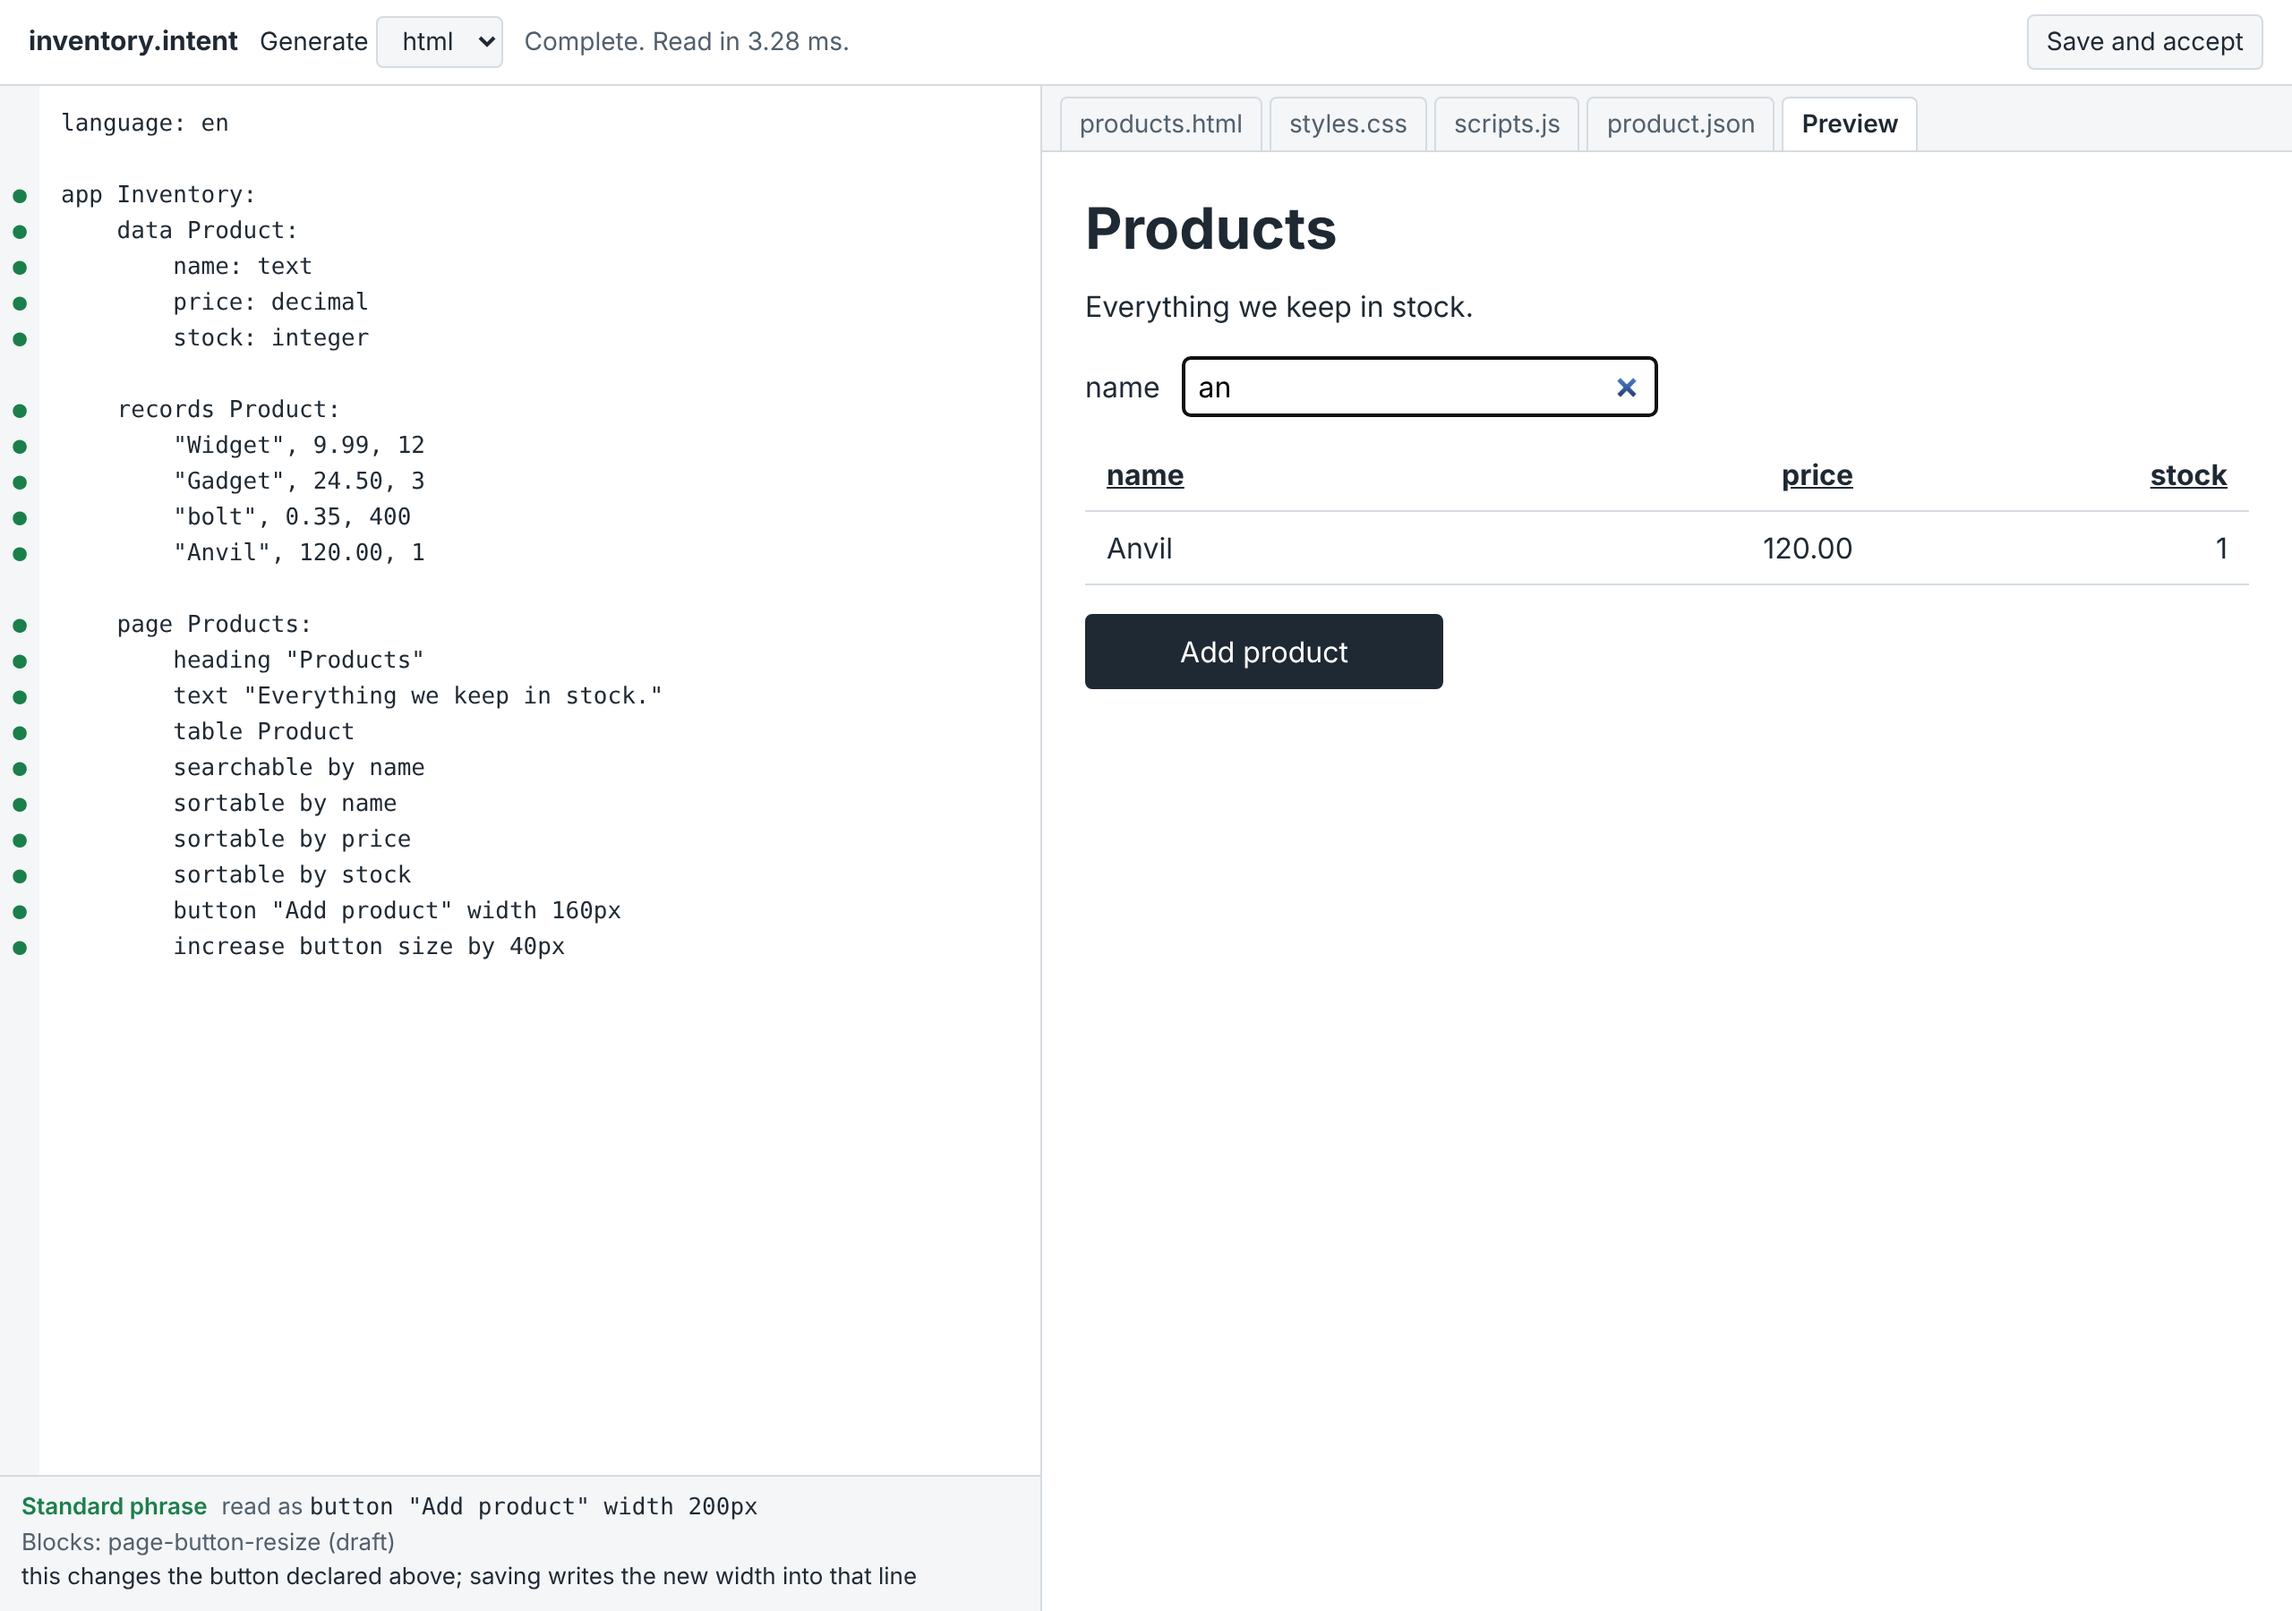
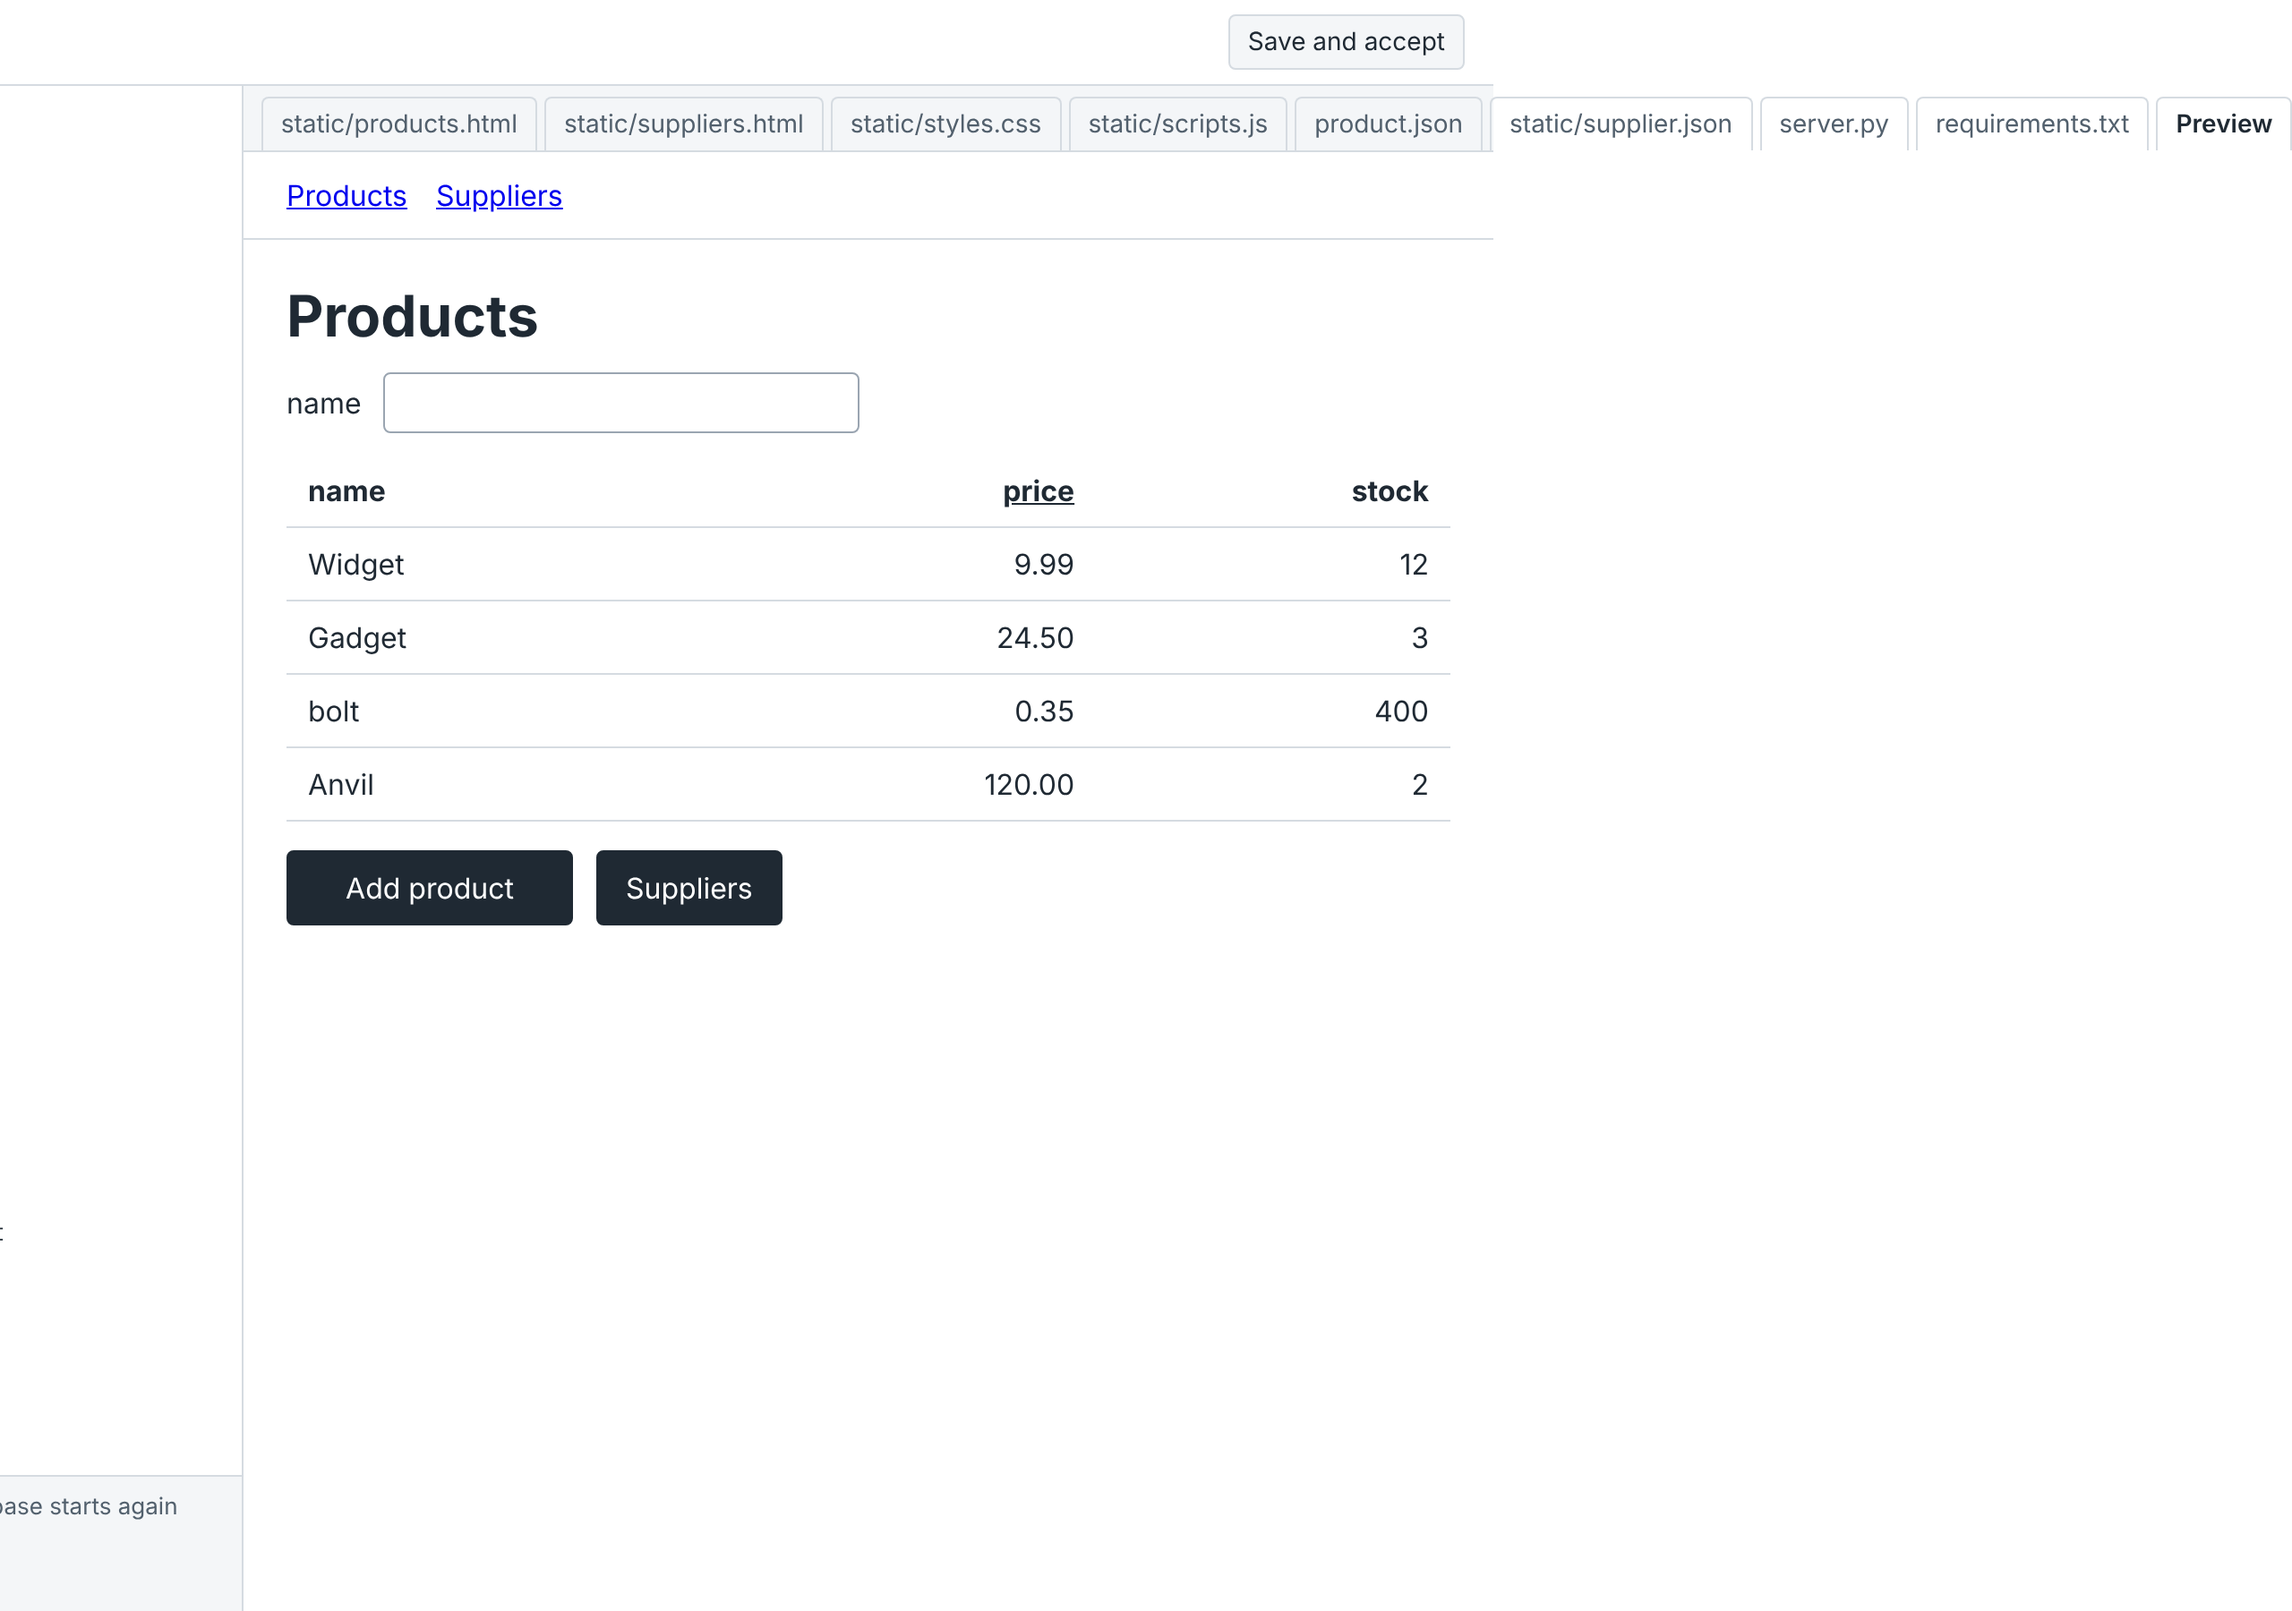
Live view: the preview of an application runs its real generated server
When FastAPI and uvicorn are installed, the live view writes the
generated application to a temporary folder and runs its server on this
machine, so that adding a record in the preview really adds it. The
server starts again with a fresh database when its code or first
records change, and the preview reloads only when a file changes.

Claude-Session: https://claude.ai/code/session_014AtkGeqpXMhPjJzw8GDT1f

diff --git a/cdipl/live_page.html b/cdipl/live_page.html
@@ -57,7 +57,7 @@ main { flex: 1; min-height: 0; display: grid; grid-template-columns: minmax(0, 1
   <div id="right">
     <div id="tabs" role="tablist"></div>
     <pre id="code" aria-label="Generated code"></pre>
-    <iframe id="preview" title="Preview of the generated page" sandbox="allow-scripts"></iframe>
+    <iframe id="preview" title="Preview of the generated page" sandbox="allow-scripts allow-same-origin allow-forms allow-modals"></iframe>
   </div>
 </main>
 <script>
@@ -67,7 +67,7 @@ const tabs = document.querySelector("#tabs"), code = document.querySelector("#co
 const targetBox = document.querySelector("#target"), state = document.querySelector("#state"), saveButton = document.querySelector("#save");
 const LABELS = { standard: "Standard phrase", sure: "Chosen", project: "Accepted earlier", unsure: "Chosen, unsure", error: "Not understood", unbuilt: "Not built yet" };
 const MARKS = { standard: "●", sure: "●", project: "●", unsure: "◐", error: "✕", unbuilt: "○" };
-let latest = null, counter = 0, timer = null, tab = null, lastLine = 0, notice = "";
+let latest = null, counter = 0, timer = null, tab = null, lastLine = 0, notice = "", previewKey = null;
 
 function post(path, body) {
   return fetch(path, { method: "POST", headers: { "Content-Type": "application/json", "X-CDIPL-Token": token }, body: JSON.stringify(body) }).then((reply) => reply.json());
@@ -101,7 +101,16 @@ function showCode() {
   const file = latest.files.find((each) => each.name === tab);
   preview.style.display = tab === "Preview" ? "block" : "none";
   code.style.display = tab === "Preview" ? "none" : "block";
-  if (tab === "Preview") { preview.src = `/preview/${token}/${latest.preview}?v=${counter}`; return; }
+  if (tab === "Preview") {
+    // Load the page again only when what it shows has changed, so that a form in the preview is not lost while typing.
+    const key = JSON.stringify(latest.files.map((each) => [each.name, each.lines.map((line) => line.text)]));
+    if (key !== previewKey) {
+      previewKey = key;
+      preview.src = latest.preview_url ? latest.preview_url : `/preview/${token}/${latest.preview}?v=${counter}`;
+    }
+    return;
+  }
+  previewKey = null;
   if (!file) { code.replaceChildren(element("div", "", "")); code.firstChild.id = "empty"; code.firstChild.textContent = "Nothing can be generated yet."; return; }
   code.replaceChildren(...file.lines.map((line) => {
     const row = element("div", typeof line.origin === "number" ? "pick" : "", line.text);

diff --git a/cdipl/live_server.py b/cdipl/live_server.py
@@ -1,6 +1,13 @@
-"""A local web server for the live view: text on one side, generated blocks on the other."""
+"""A local web server for the live view: text on one side, generated files on the other."""
+import hashlib
+import importlib.util
 import json
 import secrets
+import socket
+import subprocess
+import sys
+import tempfile
+import time
 from http.server import BaseHTTPRequestHandler, ThreadingHTTPServer
 from pathlib import Path
 
@@ -14,6 +21,85 @@ def index_path(intent):
     return intent.with_suffix(".index.json")
 
 
+class PreviewServer:
+    """Runs the generated server of an application, so that the preview is the real thing.
+
+    The generated files are written to a temporary folder and served by uvicorn on this machine only.
+    The server is started again, with an empty database, whenever its code or its first records change.
+    """
+
+    def __init__(self):
+        self.folder = None
+        self.process = None
+        self.port = None
+        self.signature = None
+
+    @staticmethod
+    def available():
+        return all(importlib.util.find_spec(name) is not None for name in ("fastapi", "uvicorn"))
+
+    def update(self, files):
+        """Bring the running server in line with the files. Returns its address, or None if there is none."""
+        if "server.py" not in files or not self.available():
+            self.stop()
+            return None
+        if self.folder is None:
+            self.folder = tempfile.TemporaryDirectory(prefix="cdipl-preview-")
+        root = Path(self.folder.name)
+        for name, text in files.items():
+            path = root / name
+            path.parent.mkdir(parents=True, exist_ok=True)
+            if not path.exists() or path.read_text(encoding="utf-8") != text:
+                path.write_text(text, encoding="utf-8")
+        for path in root.rglob("*"):
+            relative = path.relative_to(root).as_posix()
+            if path.is_file() and relative not in files and path.suffix != ".db" and "__pycache__" not in path.parts:
+                path.unlink()
+        core = sorted((name, text) for name, text in files.items() if "/" not in name)
+        signature = hashlib.sha256(json.dumps(core).encode("utf-8")).hexdigest()
+        if signature != self.signature or self.process is None or self.process.poll() is not None:
+            self._start(root)
+            self.signature = signature
+        return f"http://127.0.0.1:{self.port}" if self.process is not None else None
+
+    def _start(self, root):
+        self._end_process()
+        for database in root.glob("*.db"):
+            database.unlink()
+        with socket.socket() as probe:
+            probe.bind(("127.0.0.1", 0))
+            self.port = probe.getsockname()[1]
+        self.process = subprocess.Popen(
+            [sys.executable, "-m", "uvicorn", "server:app", "--host", "127.0.0.1", "--port", str(self.port),
+             "--log-level", "warning"], cwd=root, stdout=subprocess.DEVNULL, stderr=subprocess.DEVNULL)
+        deadline = time.monotonic() + 8
+        while time.monotonic() < deadline:
+            if self.process.poll() is not None:
+                break
+            try:
+                with socket.create_connection(("127.0.0.1", self.port), timeout=0.2):
+                    return
+            except OSError:
+                time.sleep(0.05)
+        self._end_process()
+
+    def _end_process(self):
+        if self.process is not None:
+            self.process.terminate()
+            try:
+                self.process.wait(timeout=5)
+            except subprocess.TimeoutExpired:
+                self.process.kill()
+            self.process = None
+
+    def stop(self):
+        self._end_process()
+        self.signature = None
+        if self.folder is not None:
+            self.folder.cleanup()
+            self.folder = None
+
+
 def make_server(intent_path, port=8765):
     """Create the server. intent_path is the one file the view may read and write."""
     intent = Path(intent_path)
@@ -21,9 +107,17 @@ def make_server(intent_path, port=8765):
     latest = {}  # the files of the most recent analysis, served to the preview
     kinds = {".html": "text/html", ".css": "text/css", ".js": "text/javascript", ".json": "application/json"}
 
+    preview = PreviewServer()
+
     def remember(result):
         latest.clear()
         latest.update({file["name"]: "\n".join(line["text"] for line in file["lines"]) + "\n" for file in result["files"]})
+        if result.get("kind") == "app":
+            address = preview.update(latest)
+            if address is not None and result.get("preview"):
+                result["preview_url"] = f"{address}/{result['preview'].removeprefix('static/')}"
+                result["preview_note"] = ("The preview is the generated server, running on this machine. Its database "
+                                          "starts again from the records in the file whenever the data or the API change.")
         return result
 
     def load_index():
@@ -95,7 +189,9 @@ def make_server(intent_path, port=8765):
                 return self.reply(200, json.dumps({"text": saved, "accepted": accepted}))
             return self.reply(404, "{}")
 
-    return ThreadingHTTPServer(("127.0.0.1", port), Handler)
+    server = ThreadingHTTPServer(("127.0.0.1", port), Handler)
+    server.preview = preview
+    return server
 
 
 def serve(intent_path, port=8765):
@@ -106,4 +202,5 @@ def serve(intent_path, port=8765):
     except KeyboardInterrupt:
         pass
     finally:
+        server.preview.stop()
         server.server_close()

diff --git a/tests/test_live.py b/tests/test_live.py
@@ -10,7 +10,7 @@ from pathlib import Path
 from cdipl.compiler import build
 from cdipl.live import analyse
 from cdipl.targets import TARGETS
-from cdipl.live_server import make_server
+from cdipl.live_server import PreviewServer, make_server
 
 from .support import REPO
 
@@ -205,6 +205,46 @@ class LiveTest(unittest.TestCase):
                 self.assertFalse(unfinished["accepted"])
                 self.assertEqual(intent.read_text(encoding="utf-8"), HEAD + "get users\n")
             finally:
+                server.shutdown()
+                server.server_close()
+
+
+class LivePreviewTest(unittest.TestCase):
+    @unittest.skipUnless(PreviewServer.available(), "fastapi and uvicorn are not installed")
+    def test_the_preview_of_an_application_is_its_real_server(self):
+        text = (REPO / "examples" / "inventory_server.intent").read_text(encoding="utf-8")
+        with tempfile.TemporaryDirectory() as folder:
+            intent = Path(folder) / "inventory.intent"
+            intent.write_text(text, encoding="utf-8")
+            server = make_server(intent, port=0)
+            threading.Thread(target=server.serve_forever, daemon=True).start()
+            base = f"http://127.0.0.1:{server.server_address[1]}"
+            opener = urllib.request.build_opener(urllib.request.ProxyHandler({}))
+            try:
+                token = opener.open(base + "/").read().decode("utf-8").split('const token = "')[1].split('"')[0]
+
+                def analyse_text(body):
+                    request = urllib.request.Request(base + "/analyse", json.dumps({"text": body}).encode(),
+                                                     {"Content-Type": "application/json", "X-CDIPL-Token": token})
+                    return json.loads(opener.open(request).read())
+
+                result = analyse_text(text)
+                address = result["preview_url"]
+                self.assertTrue(address.endswith("/products.html"))
+                self.assertIn("generated server", result["preview_note"])
+                root = address.rsplit("/", 1)[0]
+                self.assertIn("<h1>Products</h1>", opener.open(address).read().decode("utf-8"))
+                first = json.loads(opener.open(root + "/api/product").read())
+                self.assertEqual(first[0]["name"], "Widget")
+                # a change to a page does not restart the server; a change to the records starts it afresh
+                same = analyse_text(text.replace('heading "Products"', 'heading "Stock"'))
+                self.assertEqual(same["preview_url"].rsplit("/", 1)[0], root)
+                self.assertIn("<h1>Stock</h1>", opener.open(same["preview_url"]).read().decode("utf-8"))
+                again = analyse_text(text.replace('"Widget", 9.99, 12', '"Sprocket", 1.50, 7'))
+                listed = json.loads(opener.open(again["preview_url"].rsplit("/", 1)[0] + "/api/product").read())
+                self.assertEqual(listed[0]["name"], "Sprocket")
+            finally:
+                server.preview.stop()
                 server.shutdown()
                 server.server_close()
 
